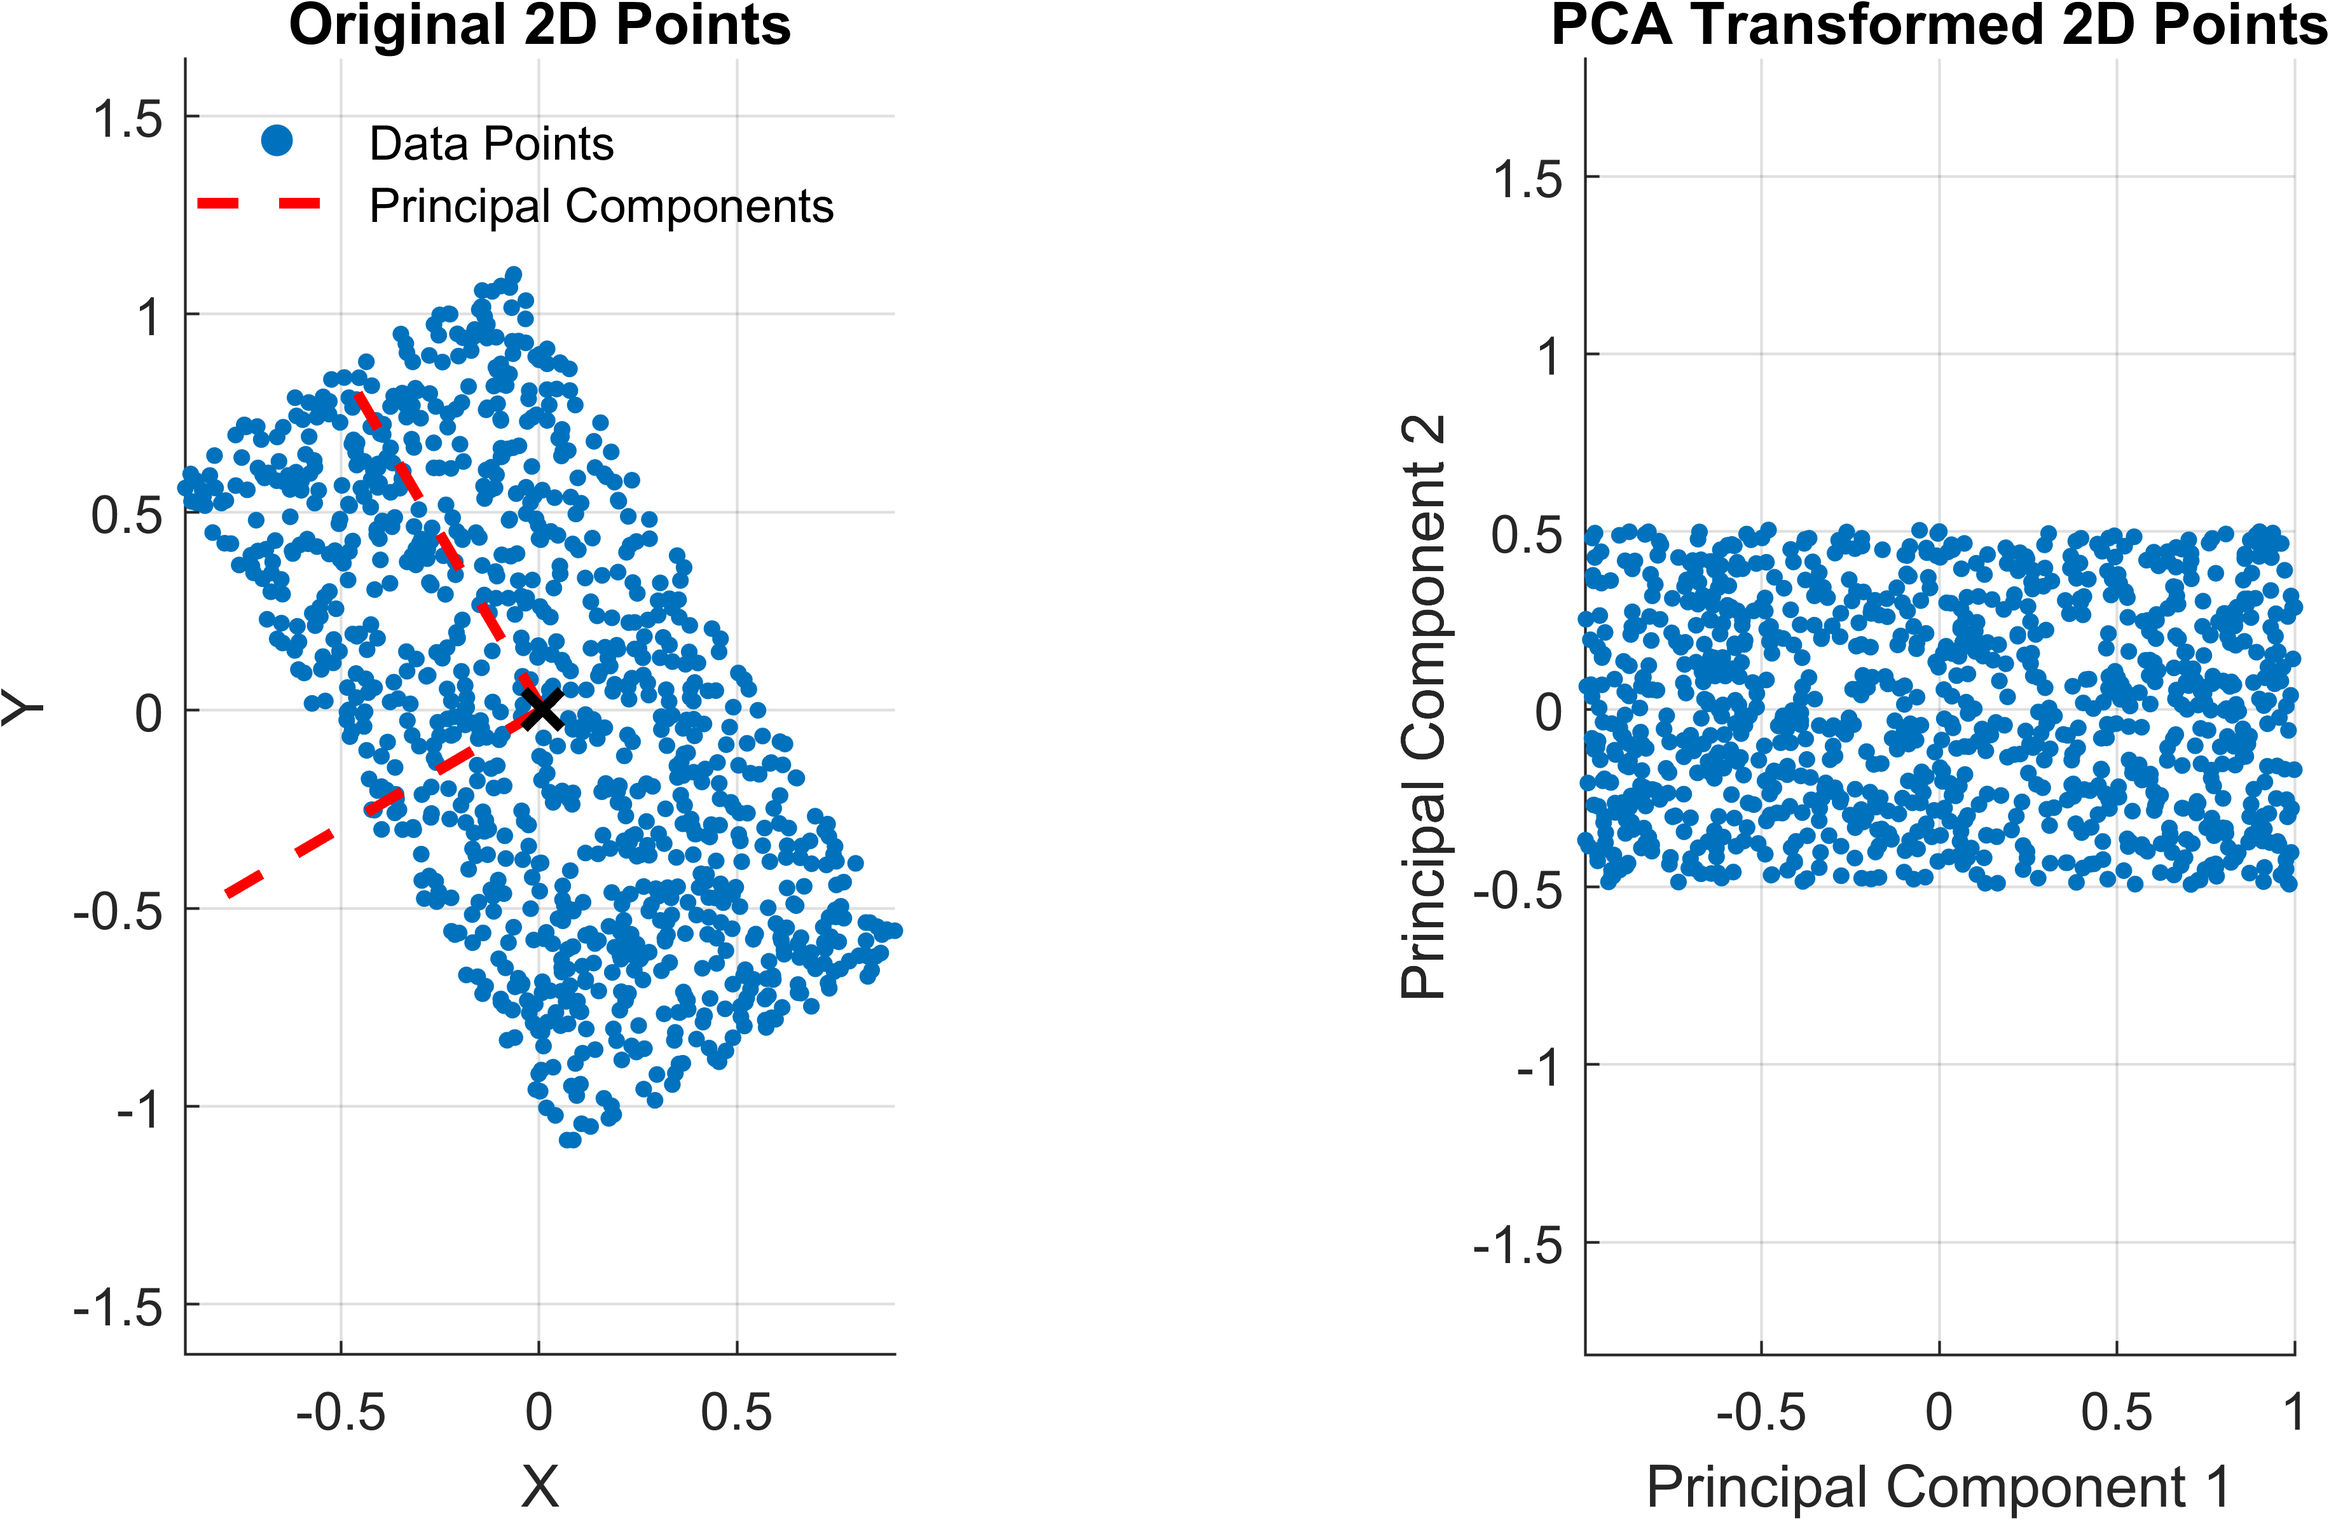
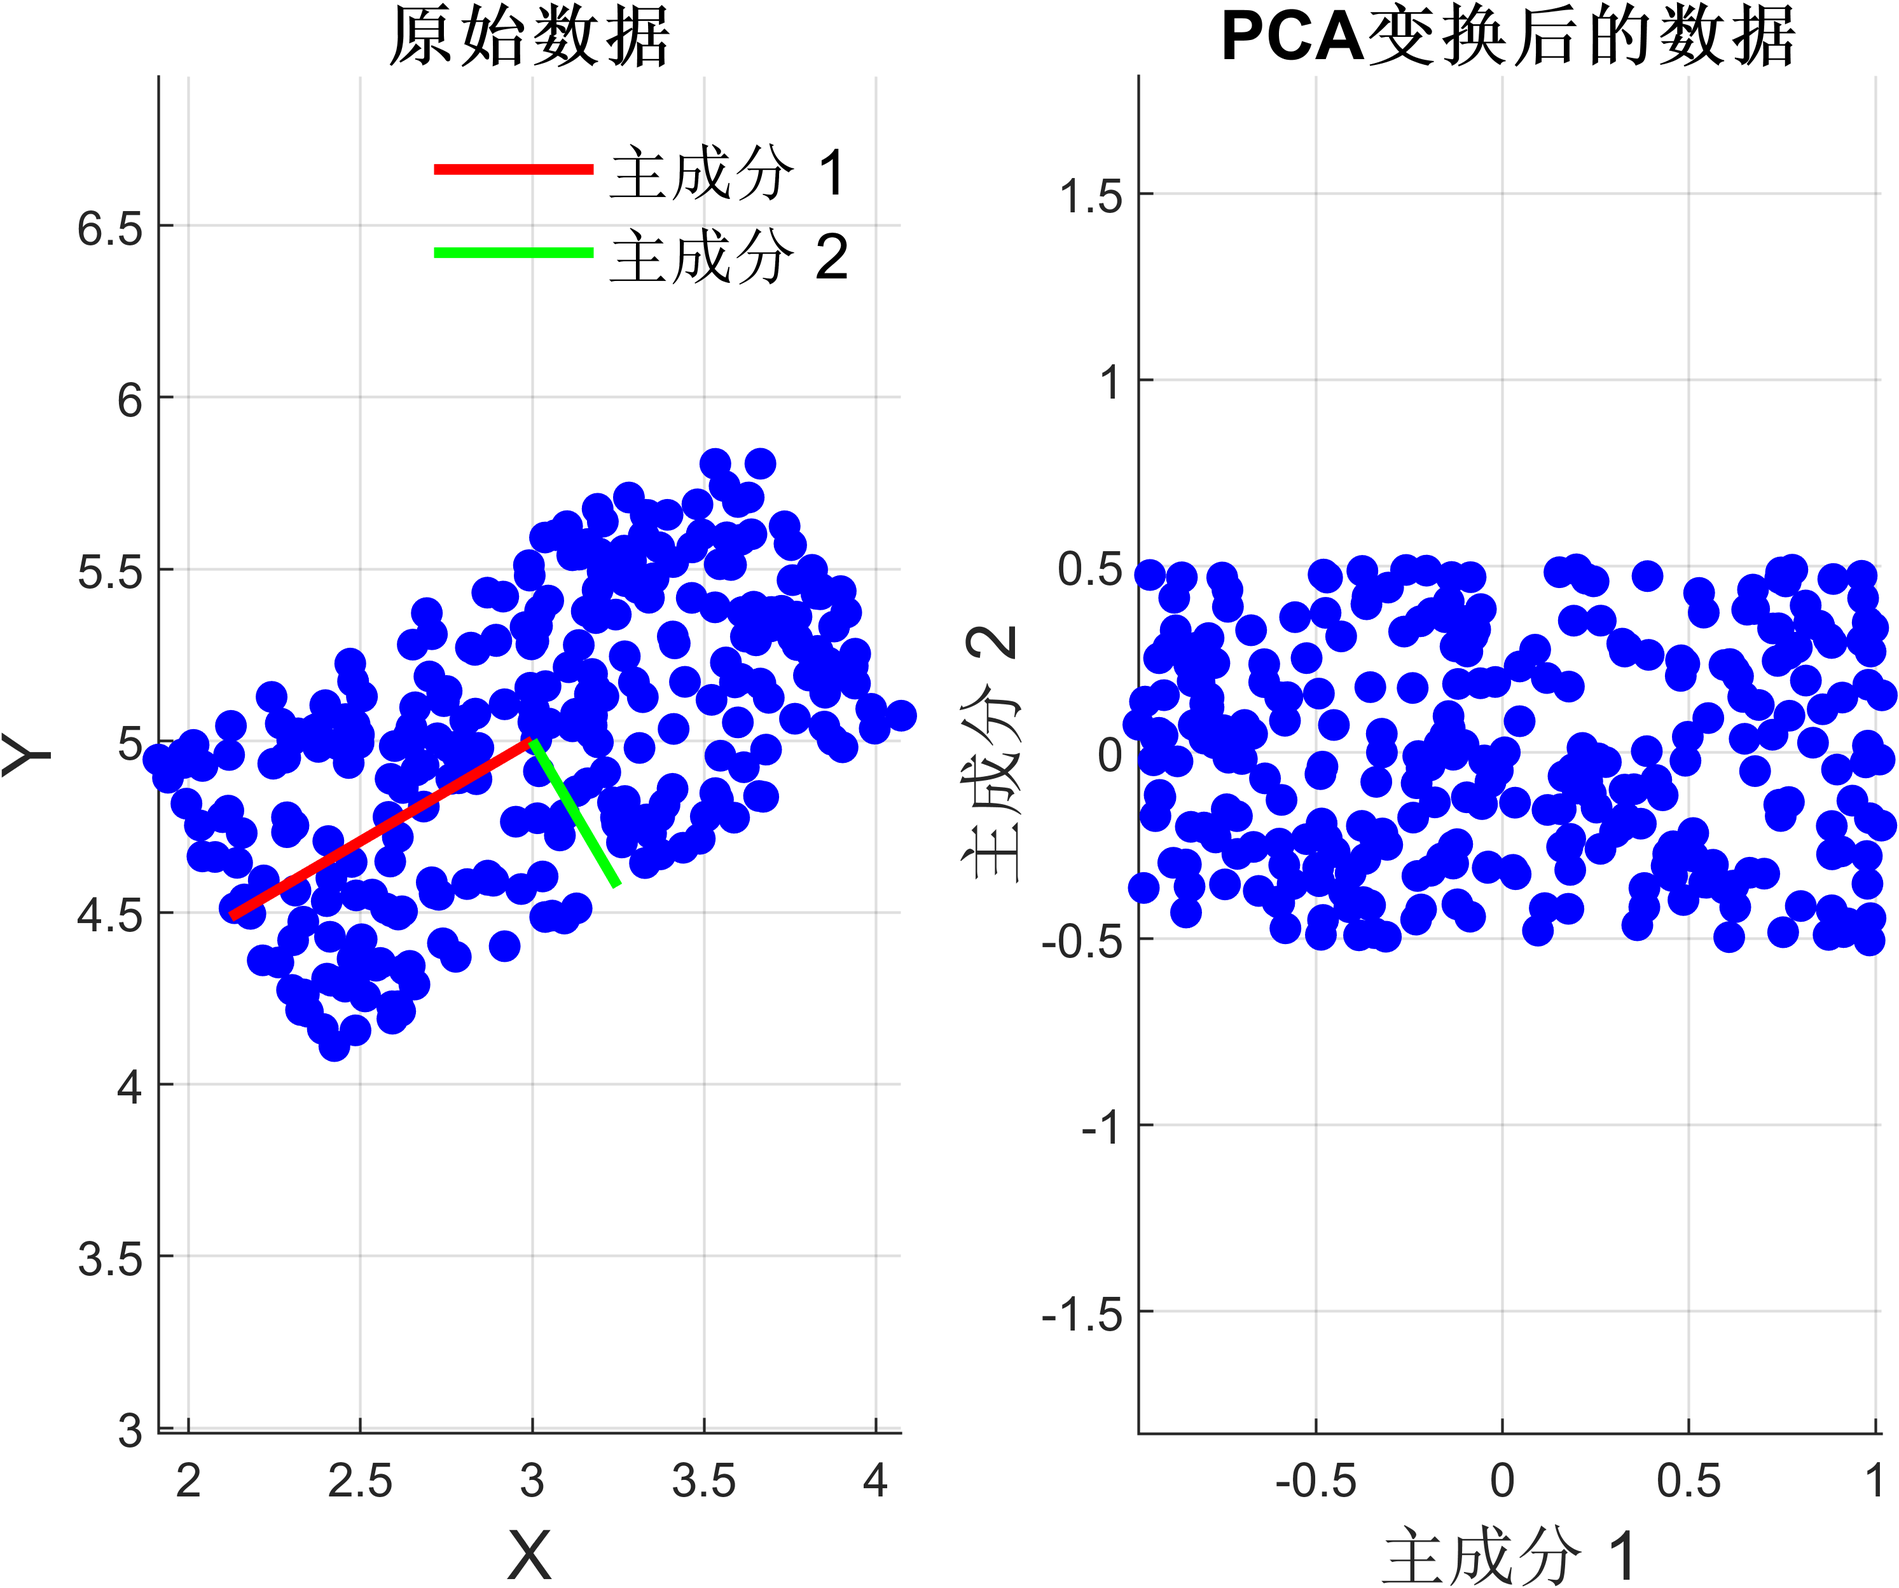
update

diff --git a/auxiliary.m b/auxiliary.m
@@ -1,81 +1,201 @@
-% 清空环境
-clc; clear; close all;
+% rng(2)
+close all
+num_points = 300; % Number of random points
+xc = 3; % Center x-coordinate
+yc = 5; % Center y-coordinate
+width = 2; % Rectangle width
+height = 2; % Rectangle height
+theta = pi / 6; % Rotation angle (30 degrees)
 
-% 生成随机点
-N = 100;
-points = rand(N, 2);
+X = generate_random_points_in_rotated_rectangle(num_points, xc, yc, width, height, theta);
 
-% 计算凸包
-k = convhull(points(:, 1), points(:, 2));
+% 数据中心化
+X_centered = X - mean(X);
 
-% 提取凸包顶点
-hull_points = points(k, :);
+% 计算协方差矩阵
+C = cov(X_centered);
 
-% 初始化最小面积和矩形
-min_area = inf;
-min_rect = [];
+% 计算特征值和特征向量
+[V, D] = eig(C);
 
-% 计算凸包边数
-num_edges = length(k);
+% 按特征值降序排序
+[~, order] = sort(diag(D), 'descend');
+V = V(:, order);
 
-% 旋转卡壳
-for i = 1:num_edges - 1
-    % 当前边
-    edge = hull_points(i + 1, :) - hull_points(i, :);
+% 投影到主成分上
+X_pca = X_centered * V;
+
+% 计算投影范围
+range_pc1 = [min(X_pca(:, 1)), max(X_pca(:, 1))];
+range_pc2 = [min(X_pca(:, 2)), max(X_pca(:, 2))];
+
+% 主成分方向
+pc1_dir = V(:, 1);
+pc2_dir = V(:, 2);
+
+% 调整主成分线段的长度
+pc1_line = [[xc yc]; [xc yc] + pc1_dir' * range_pc1(2)];
+pc2_line = [[xc yc]; [xc yc] + pc2_dir' * range_pc2(2)];
+
+% 创建图形窗口
+figure;
+
+% 绘制变换前的数据和主成分方向
+subplot(1, 2, 1);
+hold on;
+meanX = mean(X_transformed);
+pc1 = V(:, 1)' * sqrt(D(1, 1));
+pc2 = V(:, 2)' * sqrt(D(2, 2));
+scatter(X(:, 1), X(:, 2), 'filled', 'b', 'DisplayName', '数据点');
+h1 = plot(pc1_line(:, 1), pc1_line(:, 2), 'r-', 'LineWidth', 2);
+h2 = plot(pc2_line(:, 1), pc2_line(:, 2), 'g-', 'LineWidth', 2);
+legend([h1 h2], {'主成分 1', '主成分 2'}, 'box', 'off', 'fontSize', 12); % 显示图例
+title('原始数据', 'FontSize', 13);
+xlabel('X', 'FontSize', 13);
+ylabel('Y', 'FontSize', 13);
+axis equal;
+grid on;
+
+% 绘制变换后的数据
+subplot(1, 2, 2);
+scatter(X_pca(:, 1), X_pca(:, 2), 'filled', 'b');
+title('PCA变换后的数据', 'FontSize', 13);
+xlabel('主成分 1', 'FontSize', 13);
+ylabel('主成分 2', 'FontSize', 13);
+axis equal;
+grid on;
+
+exportgraphics(gcf, "figure/f18.png", 'Resolution', 600, 'BackgroundColor', 'w');
+
+function points = generate_random_points_in_rotated_rectangle(num_points, xc, yc, width, height, theta)
+    % Generate points in a rotated rectangle
     
-    % 单位向量
-    unit_edge = edge / norm(edge);
+    % Define half-width and half-height for convenience
+    half_width = width / 2;
+    half_height = height / 2;
     
-    % 垂直向量
-    perp_edge = [-unit_edge(2), unit_edge(1)];
+    % Generate random points within the [-0.5, 0.5] range
+    random_points = (rand(num_points, 2) - 0.5) .* [width, height];
     
-    % 旋转矩阵
-    R = [unit_edge; perp_edge];
+    % Create rotation matrix
+    rotation_matrix = [cos(theta), -sin(theta); sin(theta), cos(theta)];
     
-    % 投影到旋转坐标系
-    proj = hull_points * R';
+    % Rotate points around the origin (0, 0)
+    rotated_points = (rotation_matrix * random_points')';
     
-    % 计算最小外接矩形
-    min_x = min(proj(:, 1));
-    max_x = max(proj(:, 1));
-    min_y = min(proj(:, 2));
-    max_y = max(proj(:, 2));
+    % Translate points to the center (xc, yc)
+    translated_points = rotated_points + [xc, yc];
     
-    % 矩形顶点在旋转坐标系中的坐标
-    rect = [min_x, min_y;
-            max_x, min_y;
-            max_x, max_y;
-            min_x, max_y];
+    % Output the generated points
+    points = translated_points;
     
-    % 转换到原始坐标系
-    rect = rect * R;
+    % Define rectangle corners before rotation
+    % corners = [-half_width, -half_height; 
+    %            half_width, -half_height; 
+    %            half_width,  half_height; 
+    %            -half_width, half_height];
     
-    % 计算矩形面积
-    area = (max_x - min_x) * (max_y - min_y);
+    % Rotate corners around the origin
+    % rotated_corners = (rotation_matrix * corners')';
     
-    % 更新最小面积矩形
-    if area < min_area
-        min_area = area;
-        min_rect = rect;
-    end
+    % Translate corners to the center (xc, yc)
+    % translated_corners = rotated_corners + [xc, yc];
+    
+    % Plotting
+    % figure;
+    % hold on;
+    % Plot the random points
+    % plot(translated_points(:, 1), translated_points(:, 2), 'bo');
+    
+    % Plot the rectangle
+    % fill(translated_corners([1:4, 1], 1), translated_corners([1:4, 1], 2), 'r', 'FaceAlpha', 0.2, 'EdgeColor', 'k');
+    
+    % axis equal;
+    % title('Random Points in Rotated Rectangle');
+    % xlabel('X');
+    % ylabel('Y');
+    % hold off;
 end
 
-% 绘制点
-fig = figure;
-scatter(points(:, 1), points(:, 2), 'filled', 'b');
-hold on;
 
-% 绘制凸包
-plot(hull_points(:, 1), hull_points(:, 2), 'r-', 'LineWidth', 2);
-
-% 绘制最小外接矩形
-plot([min_rect(:, 1); min_rect(1, 1)], [min_rect(:, 2); min_rect(1, 2)], 'g-', 'LineWidth', 2);
-
-% 设置图形属性
-axis equal;
-axis off
-xlabel('X');
-ylabel('Y');
-legend('点集', '凸包', '最小外接矩形', 'box', 'off', 'fontSize', 12);
-hold off;
-exportgraphics(gcf, "figure/f19.png", 'Resolution', 600);
+% % 清空环境
+% clc; clear; close all;
+% 
+% % 生成随机点
+% N = 100;
+% points = rand(N, 2);
+% 
+% % 计算凸包
+% k = convhull(points(:, 1), points(:, 2));
+% 
+% % 提取凸包顶点
+% hull_points = points(k, :);
+% 
+% % 初始化最小面积和矩形
+% min_area = inf;
+% min_rect = [];
+% 
+% % 计算凸包边数
+% num_edges = length(k);
+% 
+% % 旋转卡壳
+% for i = 1:num_edges - 1
+%     % 当前边
+%     edge = hull_points(i + 1, :) - hull_points(i, :);
+% 
+%     % 单位向量
+%     unit_edge = edge / norm(edge);
+% 
+%     % 垂直向量
+%     perp_edge = [-unit_edge(2), unit_edge(1)];
+% 
+%     % 旋转矩阵
+%     R = [unit_edge; perp_edge];
+% 
+%     % 投影到旋转坐标系
+%     proj = hull_points * R';
+% 
+%     % 计算最小外接矩形
+%     min_x = min(proj(:, 1));
+%     max_x = max(proj(:, 1));
+%     min_y = min(proj(:, 2));
+%     max_y = max(proj(:, 2));
+% 
+%     % 矩形顶点在旋转坐标系中的坐标
+%     rect = [min_x, min_y;
+%             max_x, min_y;
+%             max_x, max_y;
+%             min_x, max_y];
+% 
+%     % 转换到原始坐标系
+%     rect = rect * R;
+% 
+%     % 计算矩形面积
+%     area = (max_x - min_x) * (max_y - min_y);
+% 
+%     % 更新最小面积矩形
+%     if area < min_area
+%         min_area = area;
+%         min_rect = rect;
+%     end
+% end
+% 
+% % 绘制点
+% fig = figure;
+% scatter(points(:, 1), points(:, 2), 'filled', 'b');
+% hold on;
+% 
+% % 绘制凸包
+% plot(hull_points(:, 1), hull_points(:, 2), 'r-', 'LineWidth', 2);
+% 
+% % 绘制最小外接矩形
+% plot([min_rect(:, 1); min_rect(1, 1)], [min_rect(:, 2); min_rect(1, 2)], 'g-', 'LineWidth', 2);
+% 
+% % 设置图形属性
+% axis equal;
+% axis off
+% xlabel('X');
+% ylabel('Y');
+% legend('点集', '凸包', '最小外接矩形', 'box', 'off', 'fontSize', 12);
+% hold off;
+% exportgraphics(gcf, "figure/f19.png", 'Resolution', 600);

diff --git a/readme.md b/readme.md
@@ -14,7 +14,8 @@
 
 一共有7个点云测量任务，包含9个不同的物体。每个任务都有来自不同视角拍摄的4个点云数据集。原始数据集格式为.npz，为在MATLAB上操作，已将它们全都转换为.mat文件。
 
-![object1](figure/f02.png "object1"){height=174} ![object2](figure/f03.png "object2"){height=174} ![object3](figure/f04.png "object3"){height=174} ![object4](figure/f05.png "object4"){height=174} ![object5](figure/f06.png "object5"){height=174} ![object6](figure/f07.png "object6"){height=174} ![object7](figure/f08.png "object7"){height=174} ![object8](figure/f09.png "object8"){height=174} ![object9](figure/f10.png "object9"){height=174}
+![alt text](figure/f02_10.png)
+
 
 在该工作中值得注意的是：
 
@@ -24,7 +25,7 @@
 
 如下图：
 
-![case1](figure/f11.png "case1"){height=174} ![case2](figure/f12.png "case2"){height=174} ![case3](figure/f13.png "case3"){height=174}
+![alt text](figure/f11_13.png)
 
 ## 2 算法介绍
 
@@ -44,7 +45,7 @@ RANSAC的基本假设是：
 
 这里用一个简单的例子来说明，在一组数据点中找到一条最适合的线。假设，此有一组集合包含了内点群以及外点群，其中内点群包含可以被拟合到线段上的点，而外点群则是无法被拟合的点。如果我们用简单的最小二乘法来找此线，我们将无法得到一条适合于内点群的直线，因为最小二乘法会受外点群影响而影响其结果。而用RANSAC，可以只由内点群来计算出模型，而且概率还够高。然而，RANSAC无法保证结果一定最好，所以必须小心选择参数，使其能有足够的概率得到正确的拟合直线。
 
-![RANSAC例子](figure/f14.png "RANSAC例子"){height=500}
+![RANSAC例子](figure/f14.png "RANSAC例子")
 
 #### 2.1.2 算法概述
 
@@ -99,7 +100,7 @@ model = pcfitsphere(ptCloudIn,maxDistance)
 
 主成分分析（Principal Component Analysis, PCA）是一种广泛使用的降维技术，主要用于简化数据集的维数，同时保留数据中最重要的变化信息。从几何角度上看，PCA是找到一组正交的基向量，使得将数据旋转到新的基向量构成的空间后（这也意味着在不丢失维度信息的前提下，PCA变换是一种保距变换），能集中分布在少数几个基向量（对应着数据方差最大的方向）附近，此时就可以对数据进行降维处理。如下图：
 
-![PCA降维例子](figure/f15.png "PCA降维例子"){height=500}
+![PCA降维例子](figure/f15.png "PCA降维例子"){height=300}
 
 #### 2.2.2 PCA用于3D点云降维
 
@@ -137,7 +138,7 @@ end
 
 在对点云的圆平面进行检测时，往往会遇到圆平面的边界难以检测的问题，如下图：
 
-![alt text](figure/f16.png){height=500}
+![alt text](figure/f16.png){height=300}
 
 我们显然对这个点云数据集代表的是一个圆平面这个猜测十分有把握，但是由于部分点云没有被检测到或被处理掉，导致圆的边界有所缺失，此时，我们很难通过精确的数学方程来解决这个问题。
 
@@ -170,11 +171,11 @@ function sed(P,R)
 
 在对点云的矩形平面进行检测时，往往会遇到矩形平面的边界确定的问题，如下图的左侧所示：
 
-![alt text](figure/f17.png){height=500}
+![alt text](figure/f17.png){height=300}
 
 对于这个问题，一种直观的想法是，先使用PCA，将点云数据旋转到变化最大的两个方向上，然后找出上述点云的在横坐标轴上的最大差值和在纵坐标轴上的最大差值，将其视为矩形的长度和宽度，并以此将矩形平面区分出来。这在矩形的长度显著大于其宽度时较为有效。但是，如果矩形的长度和宽度相差不大，那么PCA就会倾向于将原始点云数据旋转到矩形的对角线上。如下图：
 
-![alt text](figure/f18.png){height=500}
+![alt text](figure/f18.png){height=300}
 
 显然，这时候再沿用上述思路，就会出现较大的误差。
 
@@ -193,7 +194,7 @@ function sed(P,R)
 
 算法的效果如下图所示：
 
-![alt text](figure/f19.png){height=500}
+![alt text](figure/f19.png){height=300}
 
 ## 3 尺寸测量具体步骤与结果
 
@@ -218,7 +219,7 @@ function sed(P,R)
 结果如下：
 
 ![alt text](figure/f21.png)
-![alt text](figure/f22.png){height=500}
+![alt text](figure/f22.png){height=300}
 
 ```MATLAB
 The length is: 60.387119
@@ -242,7 +243,7 @@ The RATIO is: 1.0092505e+03
 结果如下：
 
 ![alt text](figure/f23.png)
-![alt text](figure/f24.png){height=500}
+![alt text](figure/f24.png){height=300}
 
 ```MATLAB
 The diameter is: 40.990364 mm
@@ -310,7 +311,7 @@ The radius calculated by LS is: 20.226751 mm
 结果如下：
 
 ![alt text](figure/f28.png)
-![alt text](figure/f29.png){height=500}
+![alt text](figure/f29.png){height=300}
 
 ```MATLAB
 The length of cuboid is: 42.524376 mm
@@ -382,7 +383,7 @@ The length of D is: 57.732460 mm
 结果如下：
 
 ![alt text](figure/f32.png)
-![alt text](figure/f33.png){height=500}
+![alt text](figure/f33.png){height=300}
 
 ```MATLAB
 The length is: 29.124096 mm
@@ -407,7 +408,7 @@ The width is: 21.622047 mm
 结果如下：
 
 ![alt text](figure/f34.png)
-![alt text](figure/f35.png){height=500}
+![alt text](figure/f35.png){height=300}
 
 ```MATLAB
 The diameter is: 30.542925 mm
@@ -427,7 +428,7 @@ The diameter is: 30.542925 mm
 结果如下：
 
 ![alt text](figure/f36.png)
-![alt text](figure/f37.png){height=500}
+![alt text](figure/f37.png){height=300}
 
 ```MATLAB
 The height is: 61.434860 mm
@@ -448,8 +449,8 @@ The height is: 61.434860 mm
 
      这些畸变实际上对测量结果产生很大的影响，而目前的工作并没有对这些畸变产生的原因进行分析，继而也不能提出一些针对性的算法来清除它们。
   2. 当物体摆放的位置、物体间的组合不相同，不能集成数据，这也降低了数据的利用率。
-  3. 在预处理处理底面回波时，所选取的距离容限太大，使得目标物体靠近底面的点云数据也被一并清除掉，也对测量的准确性造成了比较大的影响。
+  3. 在预处理步骤清除地面回波时，所选取的距离容限太大，使得目标物体的靠近地面的点云数据也被一并清除掉，有可能对测量的准确性造成比较大的影响。
 
 - **收获**
 
-    我在这个项目中的收获是学习到了很多有意思的算法，也将课程上的知识应用于实践中。另外，我也对特征值、特征向量、PCA在数据处理上的作用有了更深的认识。
+    我在这个项目中的收获是学习到了很多有意思的算法，也将课程上的知识应用于实践中。另外，我也对最小二乘法、特征值、特征向量、PCA在数据处理上的作用有了更深的认识。
